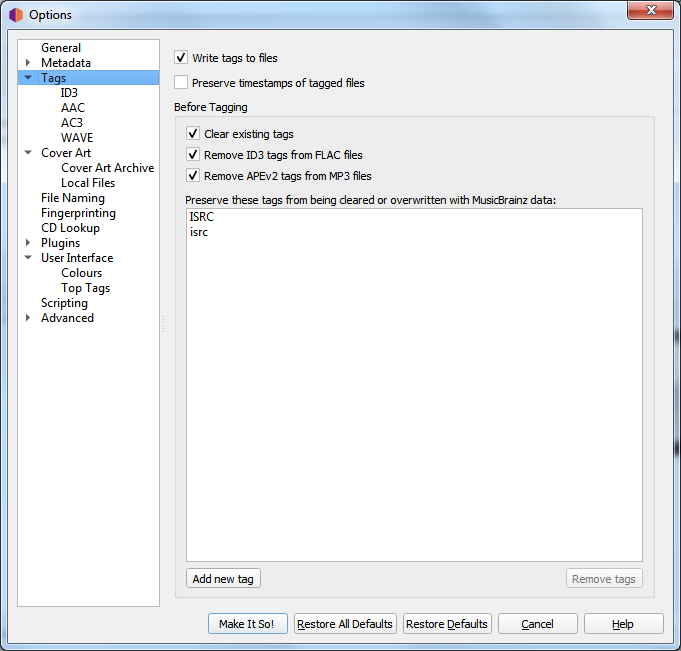
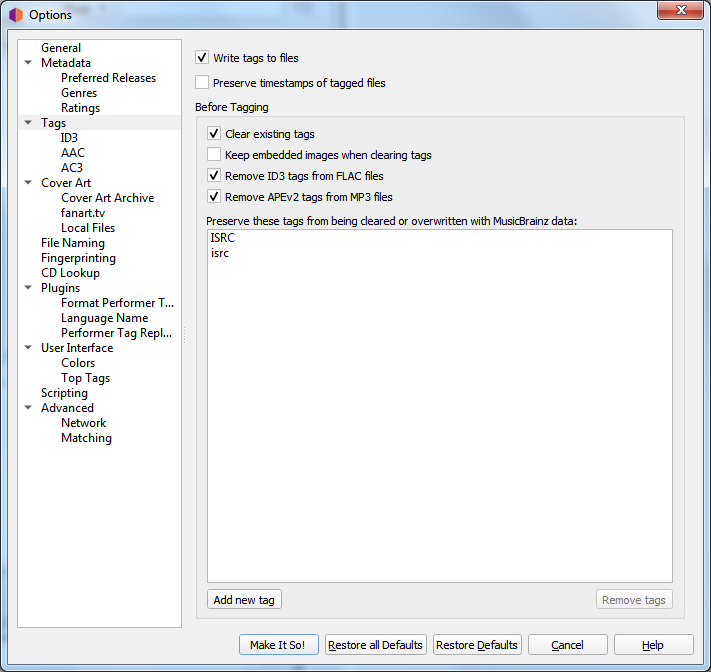
Document new option to keep embedded images when clearing existing tags

Changed region(s): [[0.0, 0.0, 1.0, 1.0], [0.9251, 0.3379, 0.9559, 0.3687]]

diff --git a/config/options_before_tagging.rst b/config/options_before_tagging.rst
@@ -13,6 +13,11 @@
    Checking this will remove all existing metadata and leave your files with only MusicBrainz metadata. Information you
    may have added through another media player such as "genre", "comments" or "ratings" will be removed.
 
+**Keep embedded images when clearing tags**
+
+   The default is for Picard to remove any embedded images from the files when clearing existing tags. Checking this
+   option will keep the embedded images in the files.
+
 **Remove ID3 tags from FLAC files**
 
    Check to remove ID3 tags from FLAC files – Vorbis Comments are recommended for FLAC files. Picard will write Vorbis
